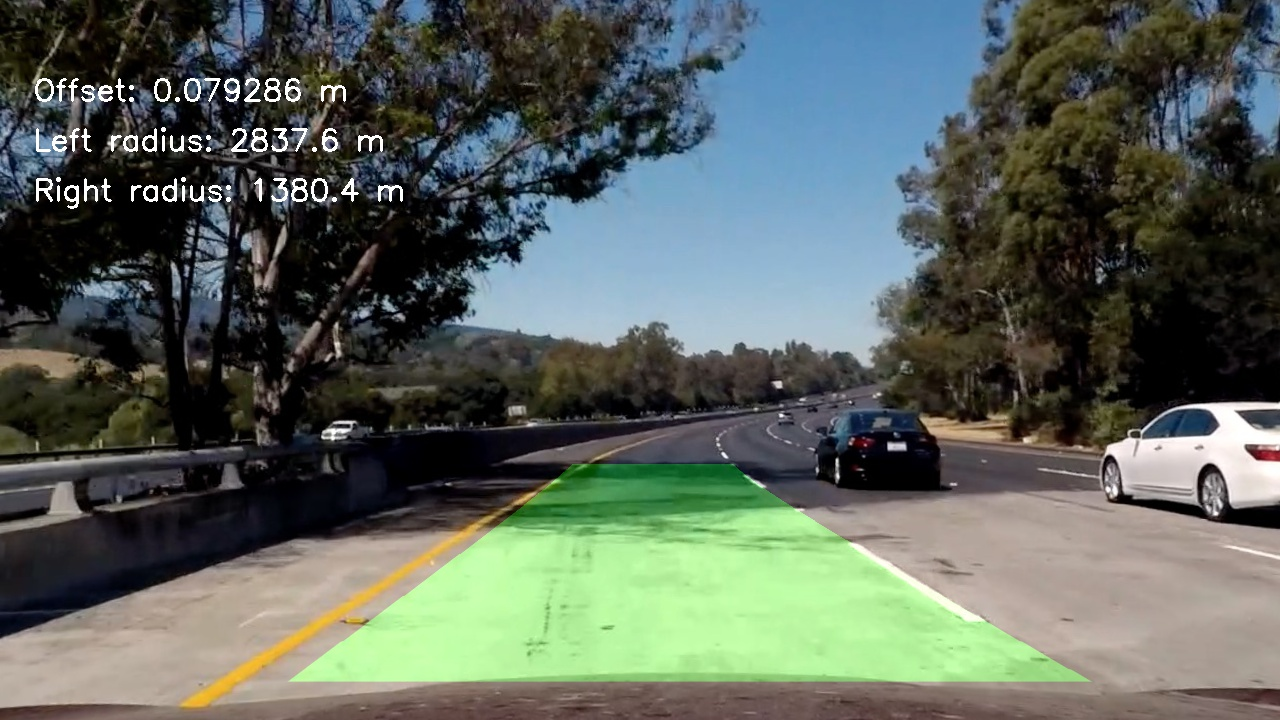
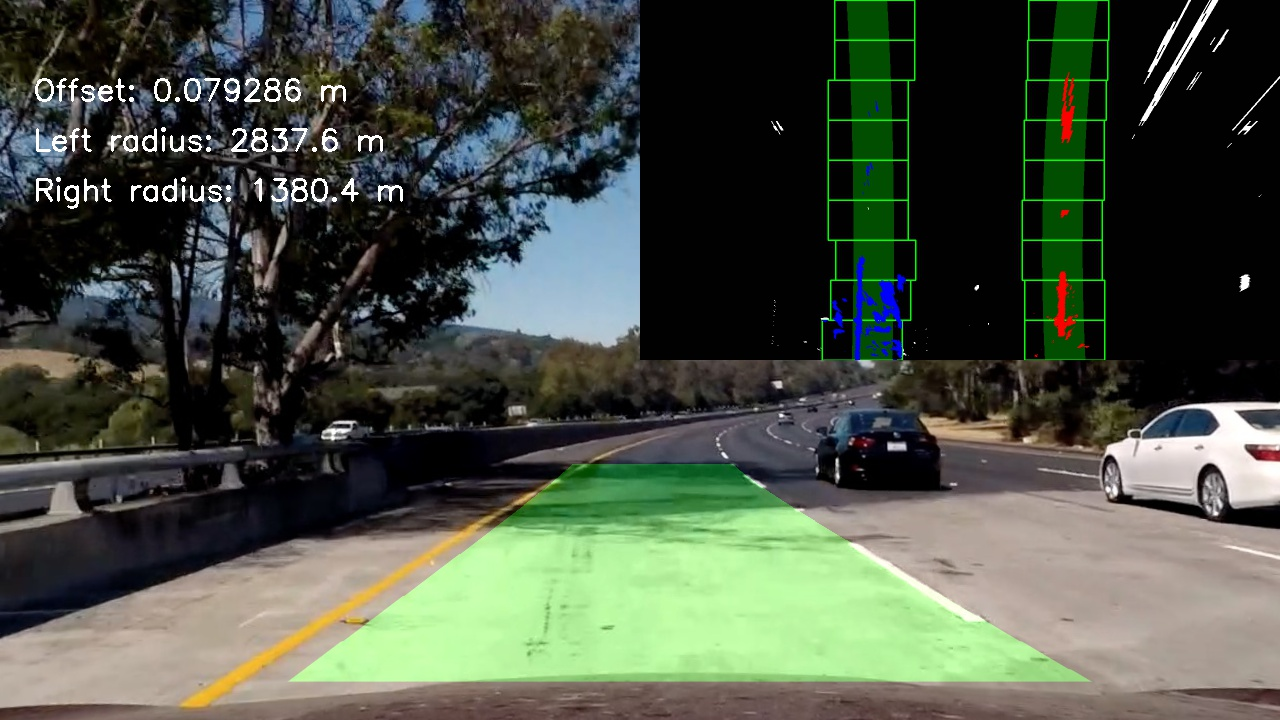
Add overlay of annotated image, plus comments with experimental thresholds

Changed region(s): [[0.5, 0.0, 1.0, 0.5194]]

diff --git a/lanelines.py b/lanelines.py
@@ -95,6 +95,23 @@ def threshold_pipeline(img, sobel_x_thresh=(45, 200), luv_l_thresh=(225, 255), l
     # White is detected well with L of LUV color space [225, 255]
     # Yellow is detected well with b channel of Lab [155, 255] to [200, 255]
 
+    # Trial-and-error to detect yellow using LAB color space: 123=LAB
+    # lower_yellow_1 = 197
+    # lower_yellow_2 = 1
+    # lower_yellow_3 = 146
+    # upper_yellow_1 = 359
+    # upper_yellow_2 = 359
+    # upper_yellow_3 = 359
+
+    # Trial-and-error to detect white using LUV color space: 123=LUV
+    # LUV color space, 123=LUV
+    # lower_white_1 = 215
+    # lower_white_2 = 0
+    # lower_white_3 = 0
+    # upper_white_1 = 359
+    # upper_white_2 = 359
+    # upper_white_3 = 359
+
     hls = cv2.cvtColor(img, cv2.COLOR_BGR2HLS).astype(np.float)
     luv = cv2.cvtColor(img, cv2.COLOR_BGR2LUV).astype(np.float)
     lab = cv2.cvtColor(img, cv2.COLOR_BGR2Lab).astype(np.float)
@@ -369,7 +386,7 @@ def process_image(original_img, mtx, dist, conv_rgb_to_bgr=True, lane_finder = L
     M, binary_warped = dashboard_to_overhead(combined_binary, src, dst)
 
     # Find the left and right lane lines and their parameters, calculate left/right fit polynomials
-    out_img, ploty, left_fitx, right_fitx, left_lane_centers, right_lane_centers = \
+    out_img_annotated, ploty, left_fitx, right_fitx, left_lane_centers, right_lane_centers = \
         lane_finder.find_lane_lines(binary_warped)
 
     # Road radius and car's sideways offset
@@ -384,9 +401,17 @@ def process_image(original_img, mtx, dist, conv_rgb_to_bgr=True, lane_finder = L
     cv2.putText(original_img_overlaid,'Left radius: %.1f m' %(left_curverad), (33, 150), font, 1, (255, 255, 255), 2)
     cv2.putText(original_img_overlaid,'Right radius: %.1f m' %(right_curverad), (33, 200), font, 1, (255, 255, 255), 2)
 
+    # use the out_img_annotated for debugging, halve its size and put it top right
+    half_width = original_img_overlaid.shape[1] // 2
+    width = original_img_overlaid.shape[1]
+    half_height = original_img_overlaid.shape[0] // 2
+    original_img_overlaid[0:half_height, half_width:width, :] = \
+        cv2.resize(out_img_annotated, (half_width, half_height))
+
+
+    # before writing the image back into a video, convert back to RGB format
     if (conv_rgb_to_bgr):
         original_img_overlaid = cv2.cvtColor(original_img_overlaid, cv2.COLOR_BGR2RGB)
-    # before writing the image back into a video, convert back to RGB format
 
     return original_img_overlaid
 
@@ -404,6 +429,7 @@ def transform_src_and_dst(img):
 # For each video, process each frame and output the resulting video
 def process_video(input, output, process_image_fun):
     clip = VideoFileClip(input)
+    # clip = clip.subclip(*subclip_secs)
     vid_clip = clip.fl_image(process_image_fun)
     vid_clip.write_videofile(output, audio=False)
     return
